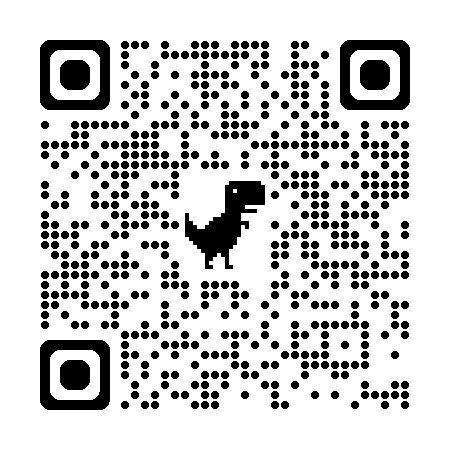
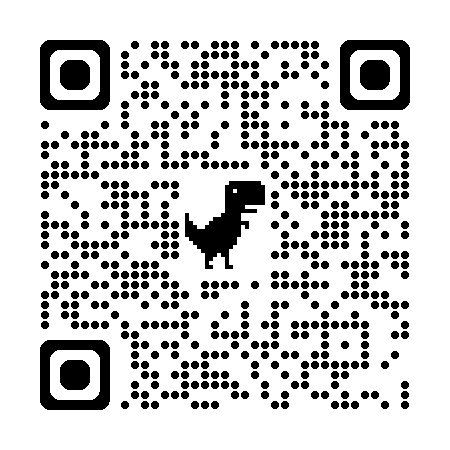
updated QR code

diff --git a/lectures/07_surface_waves.md b/lectures/07_surface_waves.md
@@ -1,11 +1,4 @@
-# Chapter 7: Surface Waves
-
-```{figure} ../figures/qrcode_47.png
----
-name: 4/28 Quiz QR Code
-alt: 4/28 Quiz QR Code
----
-```
+# Chapter 8: Surface Waves
 
 ## Purpose
 
